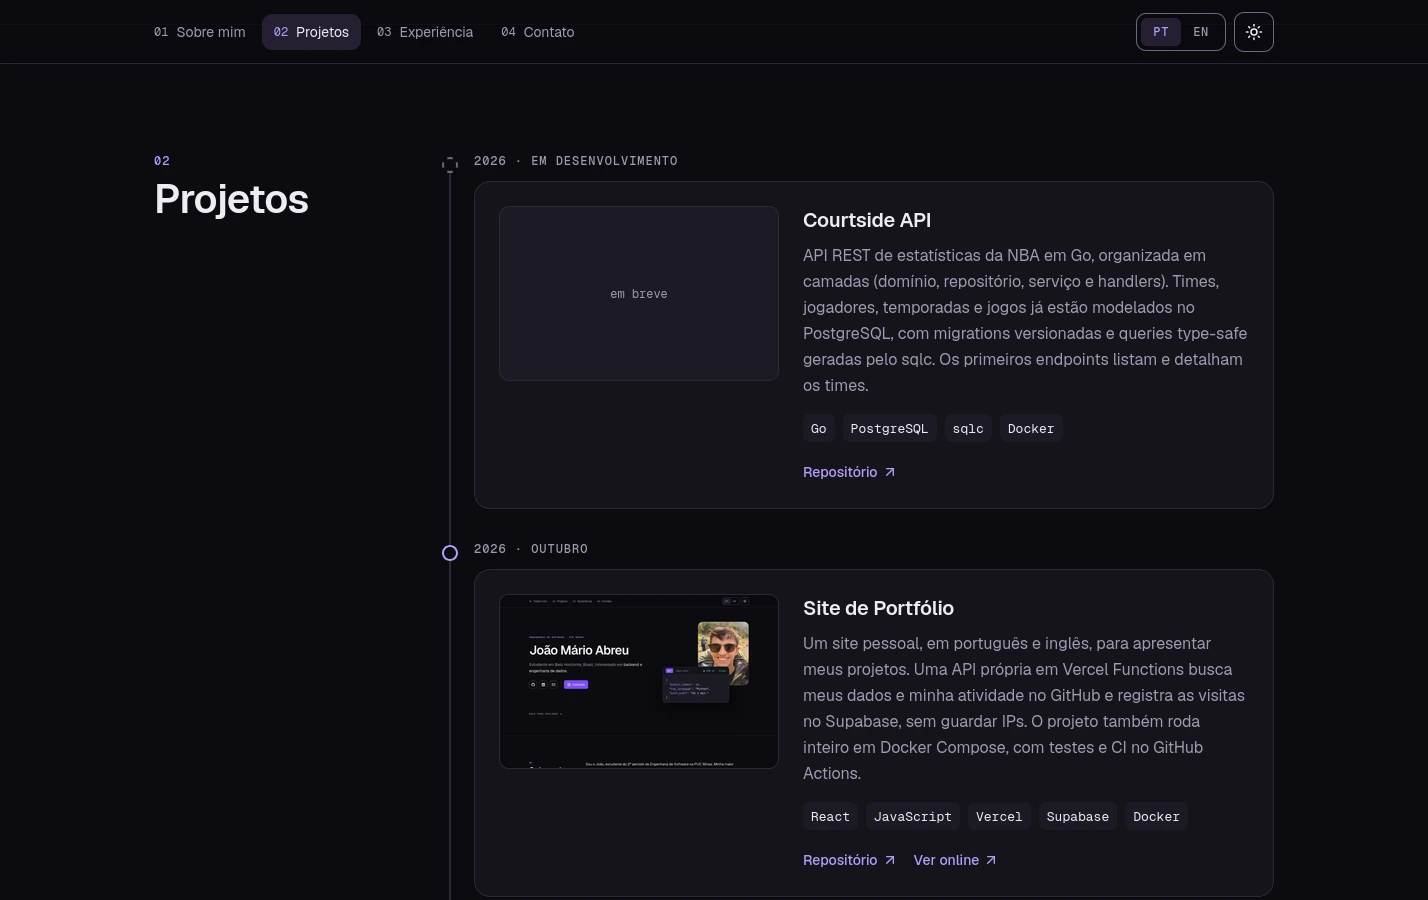
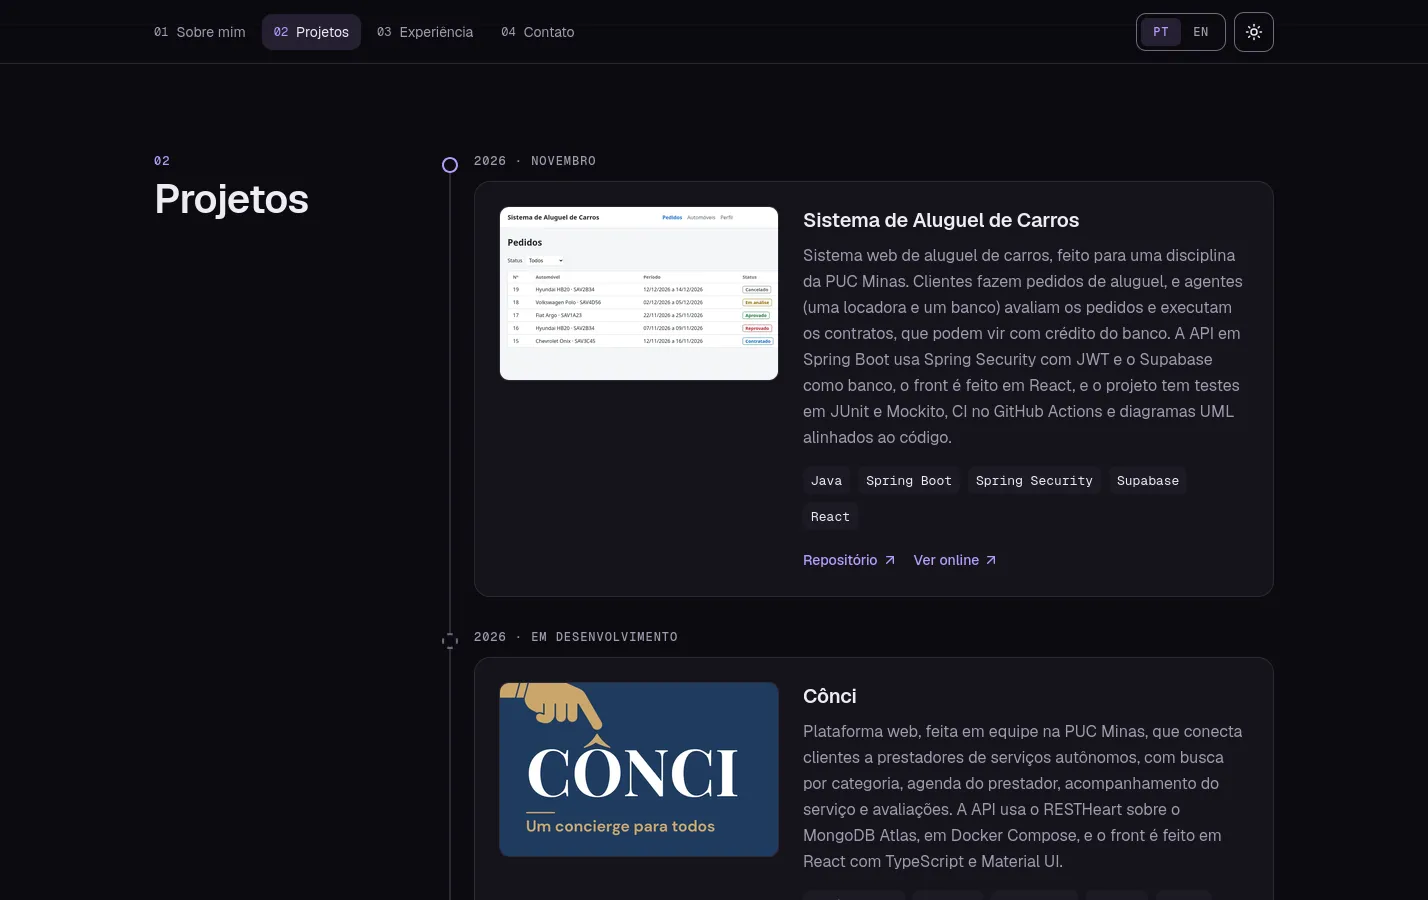
print de projetos atualizado no README

diff --git a/README.md b/README.md
@@ -247,7 +247,7 @@ Capturas do site publicado em [joaomario.dev](https://www.joaomario.dev).
 
 |                                                                   Página inicial · desktop · tema escuro                                                                    |                                                                                                                              Projetos · desktop · tema escuro                                                                                                                               |
 | :-------------------------------------------------------------------------------------------------------------------------------------------------------------------------: | :-----------------------------------------------------------------------------------------------------------------------------------------------------------------------------------------------------------------------------------------------------------------------------------------: |
-|     <img src="./docs/screenshots/home-desktop-dark.webp" alt="Hero no desktop, tema escuro, com foto, redes, botão do currículo e o card de GET /api/joao" width="420">     |                                                            <img src="./docs/screenshots/projects-desktop-dark.webp" alt="Linha do tempo de projetos no desktop, tema escuro, com Courtside API e Site de Portfólio" width="420">                                                            |
+|     <img src="./docs/screenshots/home-desktop-dark.webp" alt="Hero no desktop, tema escuro, com foto, redes, botão do currículo e o card de GET /api/joao" width="420">     |                                                          <img src="./docs/screenshots/projects-desktop-dark.webp" alt="Linha do tempo de projetos no desktop, tema escuro, com Sistema de Aluguel de Carros e Cônci" width="420">                                                           |
 |                                                            **Design system (`/design`) · desktop · tema escuro**                                                            |                                                                                                                     **Página inicial e contato · celular · tema claro**                                                                                                                     |
 | <img src="./docs/screenshots/design-desktop-dark.webp" alt="Página /design no desktop, tema escuro, com o menu lateral e a tabela de cores com contraste WCAG" width="420"> | <img src="./docs/screenshots/home-mobile-light.webp" alt="Hero no celular, tema claro, com o card de API sobre a foto" width="140"> <img src="./docs/screenshots/contact-mobile-light.webp" alt="Seção de contato no celular, tema claro, com os links diretos e o formulário" width="140"> |
 
